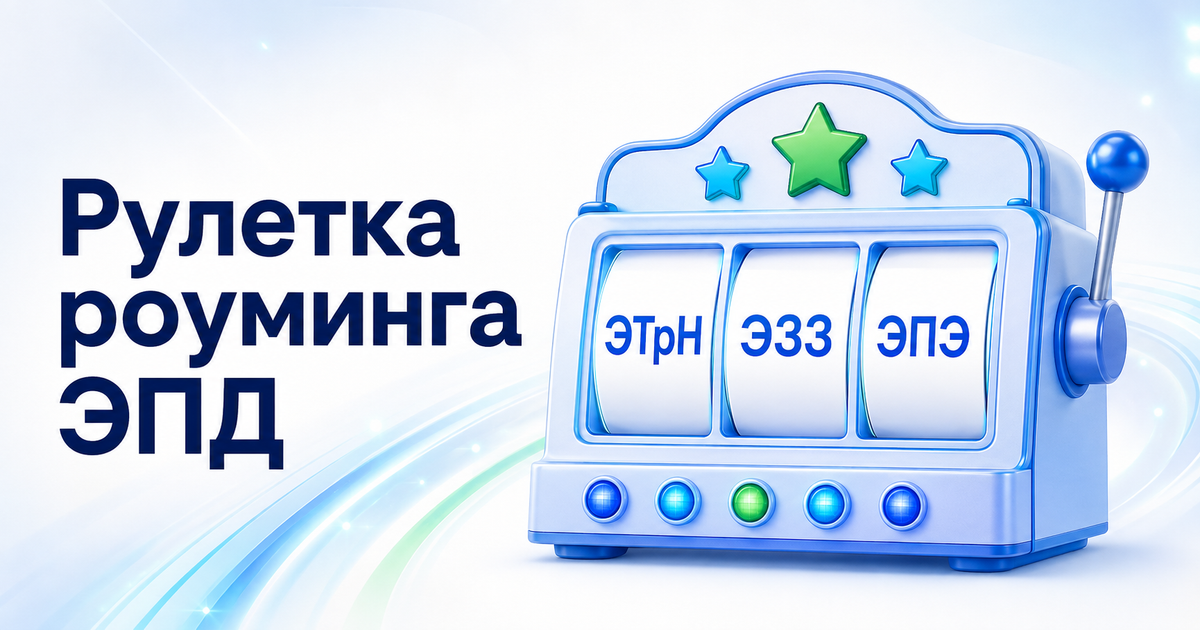
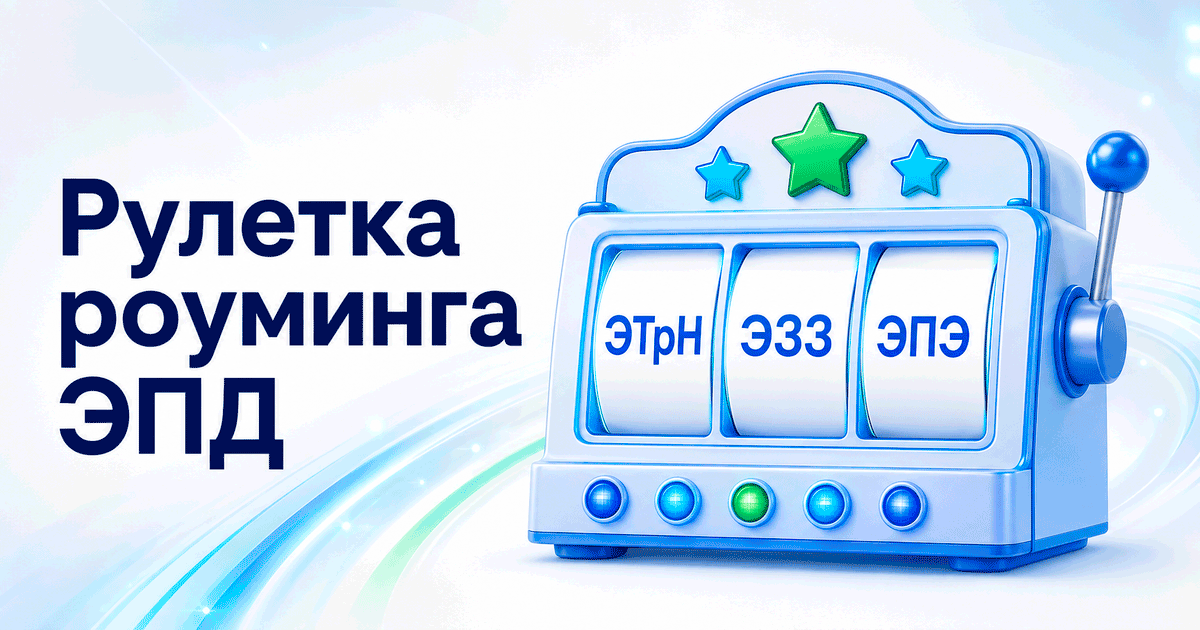
deploy: update

diff --git a/resources/views/epd-game.blade.php b/resources/views/epd-game.blade.php
@@ -2,7 +2,7 @@
     $epdSeoTitle = 'Рулетка роуминга ЭПД';
     $epdSeoDescription = 'Интерактивная рулетка роуминга ЭПД: выберите операторов и проверьте случайный маршрут обмена ЭТрН, ЭЗЗ и ЭПЭ.';
     $epdCanonicalUrl = route('epd-game');
-    $epdOgImage = asset('images/epd-game-og-v2.jpg');
+    $epdOgImage = asset('images/epd-game-og.png');
     $epdStructuredData = [
         '@context' => 'https://schema.org',
         '@type' => 'WebApplication',
@@ -75,7 +75,7 @@
     <meta property="og:url" content="{{ request()->fullUrl() }}">
     <meta property="og:image" content="{{ $epdOgImage }}">
     <meta property="og:image:secure_url" content="{{ $epdOgImage }}">
-    <meta property="og:image:type" content="image/jpeg">
+    <meta property="og:image:type" content="image/png">
     <meta property="og:image:width" content="1200">
     <meta property="og:image:height" content="630">
     <meta property="og:image:alt" content="{{ $epdSeoTitle }}">

diff --git a/tests/Feature/EpdGameTest.php b/tests/Feature/EpdGameTest.php
@@ -68,6 +68,7 @@ final class EpdGameTest extends TestCase
             ->assertSee('<link rel="canonical" href="'.route('epd-game').'">', false)
             ->assertSee('<script type="application/ld+json">', false)
             ->assertSee('"@type":"WebApplication"', false)
-            ->assertSee('images/epd-game-og-v2.jpg', false);
+            ->assertSee('images/epd-game-og.png', false)
+            ->assertSee('<meta property="og:image:type" content="image/png">', false);
     }
 }
